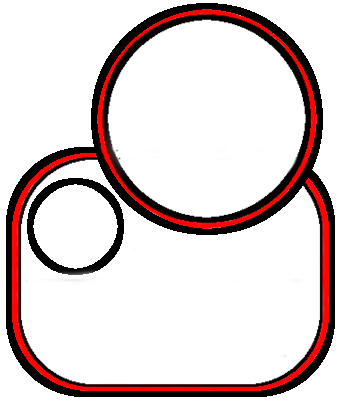
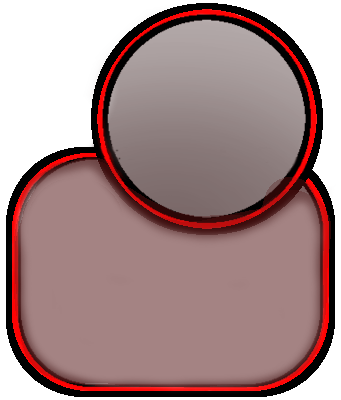
artExceptions

diff --git a/css/style.css b/css/style.css
@@ -3403,79 +3403,112 @@ html,body{
 .landlord-pill {
   position: fixed;
   bottom: 250px;
-  right: 10px;
+  right: 4px;
   z-index: 20;
-  display: flex;
-  align-items: center;
-  gap: 6px;
-  padding: 5px 10px;
-  background: rgba(6, 10, 18, 0.88);
-  border: 1px solid rgba(255, 43, 67, 0.3);
-  border-radius: 6px;
-  box-shadow: 0 2px 8px rgba(0, 0, 0, 0.6);
   pointer-events: none;
   animation: territoryFadeIn 0.4s ease-out;
-  max-width: 180px;
 }
 
 .landlord-pill.hidden {
   display: none;
 }
 
-.landlord-avatar {
-  width: 26px;
-  height: 26px;
+.landlord-ruler-bg {
+  position: relative;
+  width: 150px;
+  height: 160px;
+}
+
+.landlord-ruler-img {
+  width: 100%;
+  height: 100%;
+  object-fit: contain;
+}
+
+.landlord-ruler-avatar {
+  position: absolute;
+  top: 4px;
+  right: 18px;
+  width: 86px;
+  height: 86px;
   border-radius: 50%;
-  border: 1.5px solid var(--gold);
+  border: 2px solid var(--gold);
   background: var(--ink-2);
   display: flex;
   align-items: center;
   justify-content: center;
-  font-size: 13px;
-  flex-shrink: 0;
+  font-size: 18px;
   overflow: hidden;
 }
 
-.landlord-avatar img {
+.landlord-ruler-avatar img {
   width: 100%;
   height: 100%;
   object-fit: cover;
   border-radius: 50%;
 }
 
-.landlord-info {
+.landlord-ruler-player {
+  position: absolute;
+  bottom: 49px;
+  left: 19px;
+  width: 40px;
+  height: 40px;
+  border-radius: 50%;
+  border: 1.5px solid var(--gold);
+  background: var(--ink-2);
   display: flex;
-  flex-direction: column;
-  gap: 0;
-  min-width: 0;
+  align-items: center;
+  justify-content: center;
+  font-size: 9px;
+  overflow: hidden;
 }
 
-.landlord-title {
+.landlord-ruler-player img {
+  width: 100%;
+  height: 100%;
+  object-fit: cover;
+  border-radius: 50%;
+}
+
+.landlord-ruler-title {
+  position: absolute;
+  top: 110px;
+  left: 22px;
+  right: 6px;
   font-family: var(--font-display, 'Cinzel', serif);
-  font-size: 7px;
-  font-weight: 800;
-  letter-spacing: 1.5px;
+  font-size: 9px;
+  font-weight: 700;
+  letter-spacing: 0.9px;
   text-transform: uppercase;
   color: var(--gold);
+  text-align: center;
 }
 
-.landlord-name {
-  font-family: var(--font-display, 'Cinzel', serif);
-  font-size: 10px;
-  font-weight: 700;
+.landlord-ruler-location {
+  position: absolute;
+  bottom: 14px;
+  left: 10px;
+  right: 6px;
+  font-size: 9.0px;
+  font-weight: 900;
   color: var(--parchment);
+  text-align: center;
   white-space: nowrap;
   overflow: hidden;
-  text-overflow: ellipsis;
 }
 
-.landlord-location {
-  font-size: 8px;
-  font-weight: 600;
-  color: var(--text-dim);
-  white-space: nowrap;
-  overflow: hidden;
-  text-overflow: ellipsis;
+.landlord-ruler-location.marquee-active {
+  animation: landlordMarquee 6s linear infinite;
+}
+
+@keyframes landlordMarquee {
+  0%   { transform: translateX(0); }
+  10%  { transform: translateX(0); }
+  40%  { transform: translateX(-100%); }
+  60%  { transform: translateX(-100%); }
+  90%  { transform: translateX(0); }
+  100% { transform: translateX(0); }
 }
 
 /* Clean map while buying: hide every HUD element except the top banner */
@@ -3793,8 +3826,7 @@ body.buy-mode #treasury-ad-container {
   width: 40px;
   height: 40px;
   object-fit: contain;
-  filter: drop-shadow(0 0 4px rgba(255, 215, 0, 0.5)) drop-shadow(0 0 8px rgba(255, 215, 0, 0.25));
-  animation: trophyGlow 4s infinite ease-in-out;
+  filter: drop-shadow(0 0 2px rgba(255, 215, 0, 0.2)) drop-shadow(0 0 4px rgba(255, 215, 0, 0.25));
 }
 
 @keyframes trophyGlow {

diff --git a/js/main.js b/js/main.js
@@ -1590,11 +1590,11 @@
 
   async function updateLandlordPill() {
     const pill = el("landlord-pill");
-    const titleEl = el("landlord-title");
-    const nameEl = el("landlord-name");
-    const locEl = el("landlord-location");
-    const avatarEl = el("landlord-avatar");
-    if (!pill || !titleEl || !nameEl || !locEl) return;
+    const titleEl = el("landlord-ruler-title");
+    const locEl = el("landlord-ruler-location");
+    const rulerAvatarEl = el("landlord-ruler-avatar");
+    const playerAvatarEl = el("landlord-ruler-player");
+    if (!pill || !titleEl || !locEl) return;
 
     const titles = ["mayor", "governor", "president"];
     const title = titles[landlordIndex % titles.length];
@@ -1606,7 +1606,6 @@
         await Leaderboard.fetchRankings();
       }
 
-      // Get local territory from player's plots
       if (typeof Leaderboard === "undefined" || !Leaderboard.getLocalTerritoryRulers) {
         pill.classList.add("hidden");
         return;
@@ -1633,39 +1632,48 @@
       }
 
       const rulers = Leaderboard.getLocalTerritoryRulers(myCity, myState, myCountry);
-      const ruler = rulers[title]; // mayor, governor, or president
+      const ruler = rulers[title];
 
       locEl.textContent = title === "mayor"
-        ? `YOU ARE IN ${myCity.toUpperCase()}`
+        ? `IN ${myCity.toUpperCase()}`
         : title === "governor"
-          ? `YOU ARE IN ${myState.toUpperCase()}`
-          : `YOU ARE IN ${myCountry.toUpperCase()}`;
+          ? `IN ${myState.toUpperCase()}`
+          : `IN ${myCountry.toUpperCase()}`;
+
+      // Trigger marquee scroll if text overflows
+      locEl.classList.remove("marquee-active");
+      void locEl.offsetWidth; // force reflow
+      if (locEl.scrollWidth > locEl.clientWidth) {
+        locEl.classList.add("marquee-active");
+      }
 
       titleEl.textContent = title.toUpperCase();
 
-      if (!ruler) {
-        nameEl.textContent = "No ruler yet";
-        avatarEl.innerHTML = "👤";
-        pill.classList.remove("hidden");
-        return;
-      }
-
-      nameEl.textContent = ruler.name || "Unknown";
-
-      // Get avatar from the ruler's plots
-      let rulerAvatar = "👤";
-      for (const tid in allPlots) {
-        const p = allPlots[tid];
-        if (p.ownerId === ruler.ownerId && p.avatar) {
-          rulerAvatar = p.avatar;
-          break;
+      // Set ruler avatar (large circle)
+      if (ruler) {
+        let rulerAvatar = "👤";
+        for (const tid in allPlots) {
+          const p = allPlots[tid];
+          if (p.ownerId === ruler.ownerId && p.avatar) {
+            rulerAvatar = p.avatar;
+            break;
+          }
         }
+        if (rulerAvatar.startsWith("img:")) {
+          rulerAvatarEl.innerHTML = `<img src="${rulerAvatar.slice(4)}" alt="">`;
+        } else {
+          rulerAvatarEl.textContent = rulerAvatar;
+        }
+      } else {
+        rulerAvatarEl.innerHTML = "👤";
       }
 
-      if (rulerAvatar.startsWith("img:")) {
-        avatarEl.innerHTML = `<img src="${rulerAvatar.slice(4)}" alt="">`;
+      // Set player avatar (small circle)
+      const myAvatar = state?.player?.avatar || "🙂";
+      if (myAvatar.startsWith("img:")) {
+        playerAvatarEl.innerHTML = `<img src="${myAvatar.slice(4)}" alt="">`;
       } else {
-        avatarEl.textContent = rulerAvatar;
+        playerAvatarEl.textContent = myAvatar;
       }
 
       pill.classList.remove("hidden");

diff --git a/index.html b/index.html
@@ -282,7 +282,7 @@
     <div class="hero-balance-card" id="hero-balance-card">
       <div class="hero-top-line">
         <div class="hero-brand-title">
-          <span class="hero-brand-gem">◆</span> ELDEN EARTH <span class="hero-version-tag">0.1.10.83b</span>
+          <span class="hero-brand-gem">◆</span> ELDEN EARTH <span class="hero-version-tag">0.1.10.84b</span>
         </div>
         <div id="boost-timer-badge" class="boost-timer-badge hidden">⚡ 30X BOOST <span id="boost-countdown">00:00:00</span></div>
       </div>
@@ -350,11 +350,12 @@
 
   <!-- Landlord Title Pill (Cycles Mayor / Governor / President) -->
   <div id="landlord-pill" class="landlord-pill hidden">
-    <div class="landlord-avatar" id="landlord-avatar">👤</div>
-    <div class="landlord-info">
-      <span class="landlord-title" id="landlord-title">MAYOR</span>
-      <span class="landlord-name" id="landlord-name">---</span>
-      <span class="landlord-location" id="landlord-location">YOU ARE IN ---</span>
+    <div class="landlord-ruler-bg">
+      <img src="assets/ruler.png" alt="" class="landlord-ruler-img">
+      <div class="landlord-ruler-avatar" id="landlord-ruler-avatar">👤</div>
+      <div class="landlord-ruler-player" id="landlord-ruler-player">👤</div>
+      <div class="landlord-ruler-title" id="landlord-ruler-title">MAYOR</div>
+      <div class="landlord-ruler-location" id="landlord-ruler-location">IN ---</div>
     </div>
   </div>
 

diff --git a/sw.js b/sw.js
@@ -1,5 +1,5 @@
 // Bump this version string whenever you deploy an update!
-const CACHE_NAME = 'elden-EARTH-v23.42';
+const CACHE_NAME = 'elden-EARTH-v23.45';
 
 const ASSETS_TO_CACHE = [
     './',
